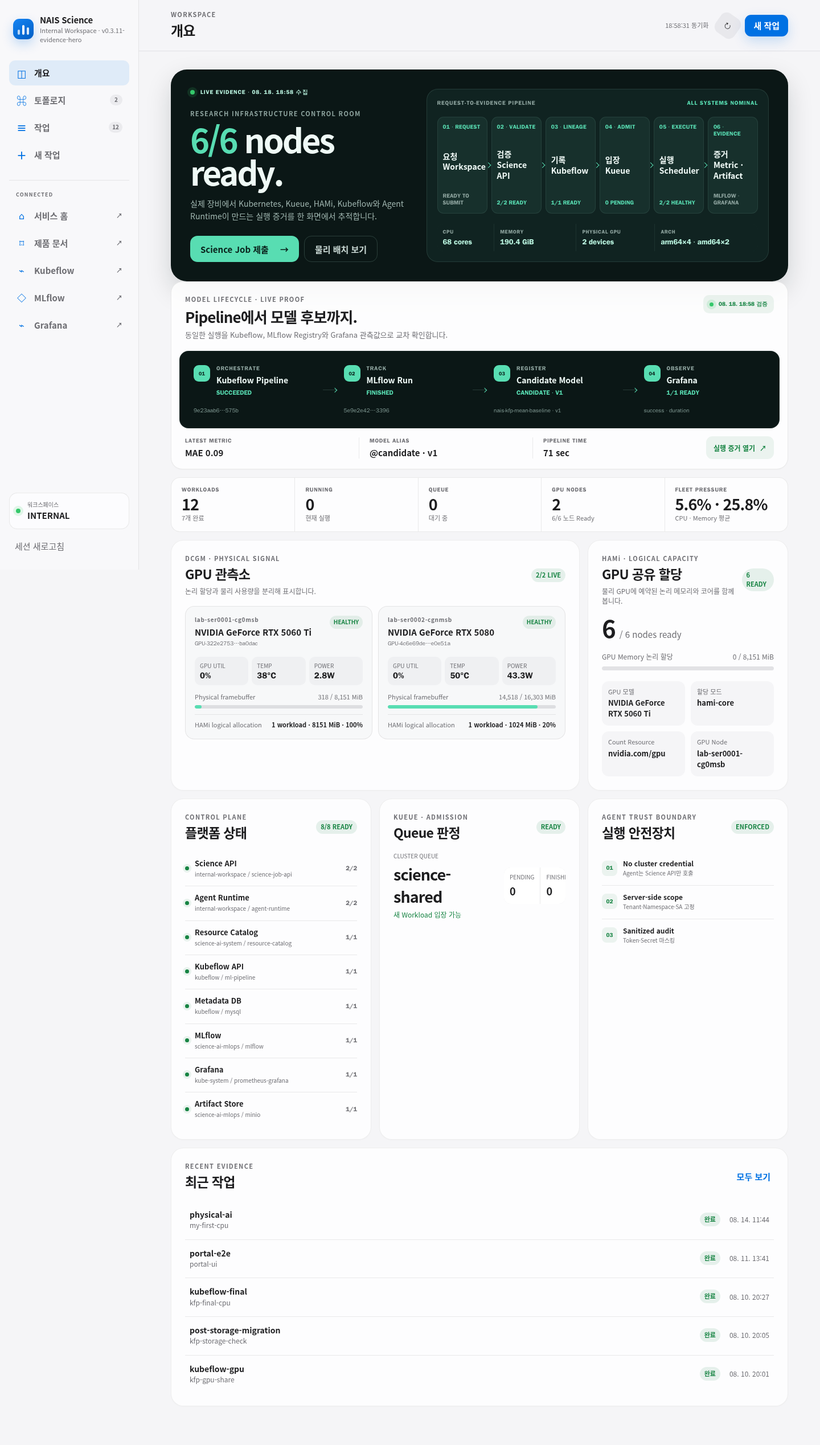
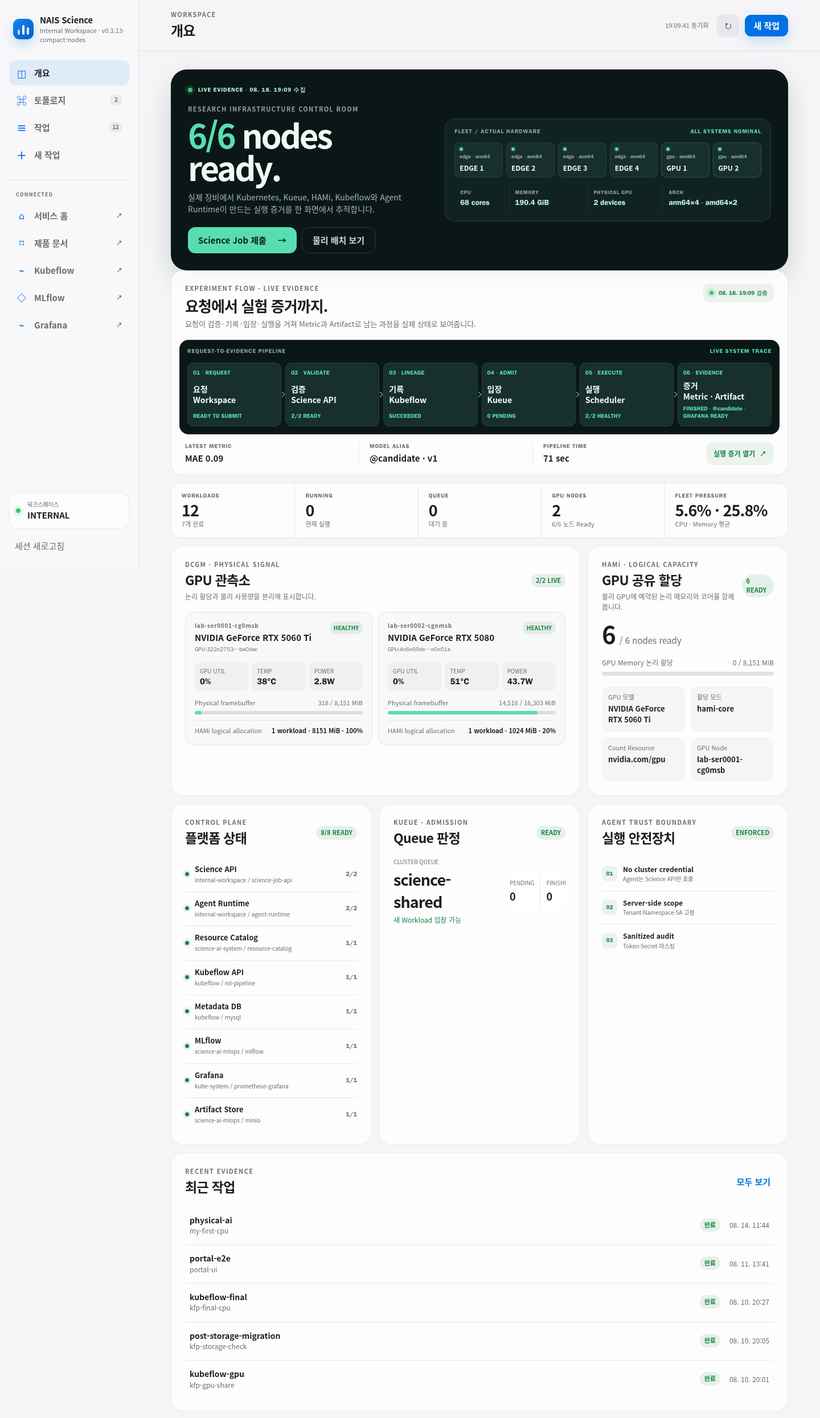
fix(ui): place evidence pipeline with experiment flow

diff --git a/workspace-topology/overrides/science_os/portal/portal.css b/workspace-topology/overrides/science_os/portal/portal.css
@@ -87,10 +87,10 @@ textarea { min-height: 120px; resize: vertical; font-family: ui-monospace, SFMon
 .status-pill { display: inline-flex; align-items: center; justify-content: center; width: fit-content; padding: 4px 8px; border-radius: 999px; font-size: 10px; font-weight: 700; text-transform: uppercase; }.status-pill.running,.status-pill.succeeded { color: var(--green); background: rgba(23,132,67,.1); }.status-pill.pending,.status-pill.submitted { color: var(--orange); background: rgba(198,93,0,.1); }.status-pill.failed,.status-pill.terminating { color: var(--red); background: rgba(215,0,21,.09); }.status-pill.neutral { color: var(--muted); background: rgba(118,118,128,.1); }
 .resource-content { display: grid; gap: 19px; }.resource-main { display: flex; align-items: baseline; gap: 8px; }.resource-main strong { font-size: 42px; line-height: 1; letter-spacing: -.05em; }.resource-main span { color: var(--muted); }.capacity-row { display: grid; gap: 8px; }.capacity-label { display: flex; justify-content: space-between; color: var(--muted); font-size: 11px; }.capacity-track { width:100%; height:7px; overflow:hidden; border:0; border-radius:8px; background:rgba(118,118,128,.1); appearance:none; }.capacity-track::-webkit-progress-bar { background:rgba(118,118,128,.1); border-radius:8px; }.capacity-track::-webkit-progress-value { border-radius:8px; background:linear-gradient(90deg,var(--blue),#5ac8fa); }.capacity-track::-moz-progress-bar { border-radius:8px; background:linear-gradient(90deg,var(--blue),#5ac8fa); }.resource-meta { display: grid; grid-template-columns: 1fr 1fr; gap: 10px; }.resource-meta div { padding: 11px; border-radius: 12px; background: rgba(118,118,128,.06); }.resource-meta small,.resource-meta strong { display: block; }.resource-meta small { color: var(--muted); font-size: 10px; }.resource-meta strong { margin-top: 3px; font-size: 12px; overflow-wrap: anywhere; }
 
-.operations-hero { display:grid; grid-template-columns:minmax(350px,.78fr) minmax(0,1.22fr); gap:30px; min-height:300px; padding:34px; border-radius:28px; color:#effaf6; background:var(--rack-ink); box-shadow:0 0 0 1px rgba(255,255,255,.05),0 18px 45px rgba(11,23,22,.16); }.operations-headline { align-self:center; }.live-kicker { display:flex; align-items:center; gap:10px; margin-bottom:24px; color:var(--phosphor-soft); font:600 10px/1.2 ui-monospace,SFMono-Regular,Menlo,monospace; letter-spacing:.08em; }.operations-hero .eyebrow { color:var(--cooled-steel); }.operations-hero h2 { margin:0; font-size:clamp(38px,4.3vw,58px); line-height:.98; letter-spacing:-.055em; text-wrap:balance; }.operations-hero h2 strong { color:var(--phosphor); font-variant-numeric:tabular-nums; }.operations-headline>p:not(.eyebrow) { max-width:690px; margin:16px 0 0; color:#9eb4ae; font-size:14px; line-height:1.6; text-wrap:pretty; }.hero-actions { display:flex; flex-wrap:wrap; gap:9px; margin-top:24px; }.operations-hero .primary-button.light { color:#09201a; background:var(--phosphor); }.operations-hero .primary-button.light:hover { background:#70e5bd; }.hero-quiet { min-height:46px; padding:0 18px; border:1px solid rgba(185,244,223,.18); border-radius:13px; color:#c9d8d4; background:transparent; cursor:pointer; font-weight:620; transition:background .18s ease,transform .12s ease; }.hero-quiet:hover { background:rgba(185,244,223,.07); }.hero-quiet:active { transform:scale(.97); }
-.request-evidence-instrument { align-self:stretch; display:grid; grid-template-rows:auto 1fr auto; min-width:0; padding:18px; border:1px solid rgba(185,244,223,.12); border-radius:20px; background:var(--rack-panel); }.instrument-head { display:flex; justify-content:space-between; gap:14px; color:var(--cooled-steel); font:600 10px/1.2 ui-monospace,SFMono-Regular,Menlo,monospace; letter-spacing:.08em; }.instrument-head span:last-child { color:var(--phosphor); }.request-evidence-flow { display:grid; grid-template-columns:repeat(6,minmax(0,1fr)); gap:7px; margin:18px 0; padding:0; list-style:none; }.request-evidence-flow li { position:relative; min-width:0; min-height:120px; display:grid; align-content:space-between; margin:0; padding:11px 9px; border:1px solid rgba(185,244,223,.09); border-radius:11px; background:var(--rack-raised); }.request-evidence-flow li::after { content:""; position:absolute; z-index:2; top:50%; right:-6px; width:6px; height:6px; border-top:1px solid var(--phosphor); border-right:1px solid var(--phosphor); transform:translateY(-50%) rotate(45deg); }.request-evidence-flow li:last-child::after { display:none; }.request-evidence-flow span { color:var(--phosphor); font:700 10px/1.2 ui-monospace,SFMono-Regular,Menlo,monospace; letter-spacing:.02em; }.request-evidence-flow strong { color:#eef8f5; font-size:14px; line-height:1.35; }.request-evidence-flow small { color:var(--cooled-steel); font:600 10px/1.25 ui-monospace,SFMono-Regular,Menlo,monospace; }.request-evidence-flow li[data-status="ready"] small { color:var(--phosphor); }.request-evidence-flow li[data-status="degraded"] small { color:var(--signal-amber); }.fleet-totals { display:grid; grid-template-columns:.8fr 1.15fr 1.1fr 1.45fr; gap:1px; margin:0; overflow:hidden; border-radius:11px; background:rgba(185,244,223,.08); }.fleet-totals div { min-width:0; padding:9px 10px; background:var(--rack-panel); }.fleet-totals dt { color:var(--cooled-steel); font:600 9px/1.2 ui-monospace,SFMono-Regular,Menlo,monospace; letter-spacing:.06em; }.fleet-totals dd { overflow:hidden; margin:4px 0 0; color:var(--phosphor-soft); font:650 13px/1.2 ui-monospace,SFMono-Regular,Menlo,monospace; text-overflow:ellipsis; white-space:nowrap; font-variant-numeric:tabular-nums; }
+.operations-hero { display:grid; grid-template-columns:minmax(370px,.85fr) minmax(480px,1.15fr); gap:28px; min-height:280px; padding:30px; border-radius:28px; color:#effaf6; background:var(--rack-ink); box-shadow:0 0 0 1px rgba(255,255,255,.05),0 18px 45px rgba(11,23,22,.16); }.operations-headline { align-self:center; }.live-kicker { display:flex; align-items:center; gap:10px; margin-bottom:20px; color:var(--phosphor-soft); font:600 10px/1.2 ui-monospace,SFMono-Regular,Menlo,monospace; letter-spacing:.08em; }.operations-hero .eyebrow { color:var(--cooled-steel); }.operations-hero h2 { margin:0; font-size:clamp(38px,4.3vw,58px); line-height:.98; letter-spacing:-.055em; text-wrap:balance; }.operations-hero h2 strong { color:var(--phosphor); font-variant-numeric:tabular-nums; }.operations-headline>p:not(.eyebrow) { max-width:690px; margin:14px 0 0; color:#9eb4ae; font-size:14px; line-height:1.55; text-wrap:pretty; }.hero-actions { display:flex; flex-wrap:wrap; gap:9px; margin-top:20px; }.operations-hero .primary-button.light { color:#09201a; background:var(--phosphor); }.operations-hero .primary-button.light:hover { background:#70e5bd; }.hero-quiet { min-height:46px; padding:0 18px; border:1px solid rgba(185,244,223,.18); border-radius:13px; color:#c9d8d4; background:transparent; cursor:pointer; font-weight:620; transition:background .18s ease,transform .12s ease; }.hero-quiet:hover { background:rgba(185,244,223,.07); }.hero-quiet:active { transform:scale(.97); }
+.fleet-instrument { align-self:center; display:grid; min-width:0; padding:16px; border:1px solid rgba(185,244,223,.12); border-radius:18px; background:var(--rack-panel); }.instrument-head { display:flex; justify-content:space-between; gap:14px; color:var(--cooled-steel); font:600 10px/1.2 ui-monospace,SFMono-Regular,Menlo,monospace; letter-spacing:.08em; }.instrument-head span:last-child { color:var(--phosphor); }.fleet-strip { display:grid; grid-template-columns:repeat(6,minmax(0,1fr)); gap:6px; margin:13px 0; }.fleet-node { min-width:0; min-height:62px; display:grid; align-content:center; gap:5px; padding:8px; border:1px solid rgba(185,244,223,.09); border-radius:10px; background:var(--rack-raised); }.fleet-node::before { content:""; width:6px; height:6px; border-radius:50%; background:var(--phosphor); box-shadow:0 0 0 3px rgba(88,221,178,.09); }.fleet-node.gpu { border-color:rgba(88,221,178,.24); }.fleet-node small,.fleet-node strong { overflow:hidden; text-overflow:ellipsis; white-space:nowrap; }.fleet-node small { color:var(--cooled-steel); font:600 9px/1.2 ui-monospace,SFMono-Regular,Menlo,monospace; }.fleet-node strong { color:#eef8f5; font-size:12px; }.fleet-totals { display:grid; grid-template-columns:.8fr 1.15fr 1.1fr 1.45fr; gap:1px; margin:0; overflow:hidden; border-radius:10px; background:rgba(185,244,223,.08); }.fleet-totals div { min-width:0; padding:8px 10px; background:var(--rack-panel); }.fleet-totals dt { color:var(--cooled-steel); font:600 9px/1.2 ui-monospace,SFMono-Regular,Menlo,monospace; letter-spacing:.06em; }.fleet-totals dd { overflow:hidden; margin:4px 0 0; color:var(--phosphor-soft); font:650 13px/1.2 ui-monospace,SFMono-Regular,Menlo,monospace; text-overflow:ellipsis; white-space:nowrap; font-variant-numeric:tabular-nums; }
 .mlops-evidence { margin-bottom:14px; overflow:hidden; border:1px solid var(--line); border-radius:20px; background:var(--surface); box-shadow:0 1px 2px rgba(0,0,0,.025); }.evidence-heading { display:flex; align-items:flex-start; justify-content:space-between; gap:28px; padding:23px 24px 19px; }.evidence-heading h2 { margin:0; font-size:26px; line-height:1.1; letter-spacing:-.035em; text-wrap:balance; }.evidence-heading p:not(.eyebrow) { max-width:720px; margin:7px 0 0; color:var(--muted); font-size:11px; text-wrap:pretty; }.evidence-updated { flex:0 0 auto; display:flex; align-items:center; gap:9px; min-height:32px; padding:0 11px; border-radius:10px; color:var(--green); background:rgba(23,132,67,.08); font:650 9px/1 ui-monospace,SFMono-Regular,Menlo,monospace; font-variant-numeric:tabular-nums; }.evidence-updated .live-dot { width:7px; height:7px; }
-.evidence-spine { display:grid; grid-template-columns:minmax(0,1fr) 24px minmax(0,1fr) 24px minmax(0,1fr) 24px minmax(0,1fr); align-items:center; margin:0 14px; padding:12px; border-radius:16px; color:#eef8f5; background:var(--rack-ink); box-shadow:inset 0 0 0 1px rgba(185,244,223,.07); }.evidence-stage { min-width:0; min-height:112px; display:grid; grid-template-columns:auto minmax(0,1fr); grid-template-rows:1fr auto; column-gap:11px; padding:13px; border-radius:12px; color:inherit; text-decoration:none; transition:background .18s cubic-bezier(.23,1,.32,1),transform .12s cubic-bezier(.23,1,.32,1); }.evidence-stage:hover { background:var(--rack-raised); }.evidence-stage:active { transform:scale(.97); }.evidence-index { grid-row:1; display:grid; place-items:center; align-self:start; width:29px; height:29px; border-radius:9px; color:#092019; background:var(--phosphor); font:750 9px/1 ui-monospace,SFMono-Regular,Menlo,monospace; }.evidence-copy { min-width:0; display:grid; align-content:start; }.evidence-copy small { color:var(--cooled-steel); font:650 8px/1.2 ui-monospace,SFMono-Regular,Menlo,monospace; letter-spacing:.08em; }.evidence-copy strong { overflow:hidden; margin-top:4px; font-size:12px; text-overflow:ellipsis; white-space:nowrap; }.evidence-copy span { margin-top:5px; color:var(--phosphor); font:650 9px/1.2 ui-monospace,SFMono-Regular,Menlo,monospace; text-transform:uppercase; }.evidence-stage code { grid-column:1/-1; overflow:hidden; align-self:end; color:#819a94; font:500 8px/1.2 ui-monospace,SFMono-Regular,Menlo,monospace; text-overflow:ellipsis; white-space:nowrap; }.evidence-connector { height:1px; background:rgba(185,244,223,.16); }.evidence-connector::after { content:""; float:right; width:5px; height:5px; margin-top:-2px; border-top:1px solid var(--phosphor); border-right:1px solid var(--phosphor); transform:rotate(45deg); }.evidence-stage[data-status="degraded"] .evidence-index { color:#281702; background:var(--signal-amber); }.evidence-stage[data-status="degraded"] .evidence-copy span { color:var(--signal-amber); }.evidence-stage[data-status="unknown"] .evidence-index { color:#d4dfdc; background:#3a4e49; }.evidence-stage[data-status="unknown"] .evidence-copy span { color:var(--cooled-steel); }
+.evidence-pipeline-shell { margin:0 14px; padding:14px; border-radius:16px; color:#eef8f5; background:var(--rack-ink); box-shadow:inset 0 0 0 1px rgba(185,244,223,.07); }.request-evidence-flow { display:grid; grid-template-columns:repeat(6,minmax(0,1fr)); gap:7px; margin:14px 0 0; padding:0; list-style:none; }.request-evidence-flow li { position:relative; min-width:0; min-height:112px; display:grid; align-content:space-between; margin:0; padding:11px 9px; border:1px solid rgba(185,244,223,.09); border-radius:11px; background:var(--rack-raised); transition:background .18s cubic-bezier(.23,1,.32,1),transform .12s cubic-bezier(.23,1,.32,1); }.request-evidence-flow li::after { content:""; position:absolute; z-index:2; top:50%; right:-6px; width:6px; height:6px; border-top:1px solid var(--phosphor); border-right:1px solid var(--phosphor); transform:translateY(-50%) rotate(45deg); }.request-evidence-flow li:last-child::after { display:none; }.request-evidence-flow li>a { position:absolute; inset:0; display:grid; align-content:space-between; padding:11px 9px; color:inherit; text-decoration:none; }.request-evidence-flow li:has(a:hover) { background:#1d3832; }.request-evidence-flow li:has(a:active) { transform:scale(.97); }.request-evidence-flow span { color:var(--phosphor); font:700 10px/1.2 ui-monospace,SFMono-Regular,Menlo,monospace; letter-spacing:.02em; }.request-evidence-flow strong { color:#eef8f5; font-size:14px; line-height:1.35; }.request-evidence-flow small { color:var(--cooled-steel); font:600 10px/1.25 ui-monospace,SFMono-Regular,Menlo,monospace; }.request-evidence-flow li[data-status="ready"] small { color:var(--phosphor); }.request-evidence-flow li[data-status="degraded"] small { color:var(--signal-amber); }
 .evidence-facts { display:grid; grid-template-columns:repeat(3,minmax(0,1fr)) auto; align-items:center; gap:0; padding:14px 24px 17px; }.evidence-facts div { min-width:0; padding:0 18px; border-left:1px solid var(--line); }.evidence-facts div:first-child { padding-left:0; border-left:0; }.evidence-facts small,.evidence-facts strong { display:block; }.evidence-facts small { color:var(--muted); font:650 8px/1.2 ui-monospace,SFMono-Regular,Menlo,monospace; letter-spacing:.07em; }.evidence-facts strong { overflow:hidden; margin-top:4px; font-size:13px; font-variant-numeric:tabular-nums; text-overflow:ellipsis; white-space:nowrap; }.evidence-facts>a { display:inline-flex; align-items:center; justify-content:center; gap:8px; min-height:40px; padding:0 13px; border-radius:11px; color:var(--green); background:rgba(23,132,67,.08); font-size:11px; font-weight:680; text-decoration:none; transition:background .18s ease,transform .12s ease; }.evidence-facts>a:hover { background:rgba(23,132,67,.14); }.evidence-facts>a:active { transform:scale(.97); }
 .ops-kpis { display:grid; grid-template-columns:repeat(5,1fr); margin-bottom:14px; overflow:hidden; border:1px solid var(--line); border-radius:16px; background:var(--surface); }.ops-kpis article { min-width:0; padding:15px 18px; border-left:1px solid var(--line); }.ops-kpis article:first-child { border-left:0; }.ops-kpis small,.ops-kpis strong,.ops-kpis span { display:block; }.ops-kpis small { color:var(--muted); font:650 8px/1.2 ui-monospace,SFMono-Regular,Menlo,monospace; letter-spacing:.08em; }.ops-kpis strong { margin-top:5px; font-size:24px; line-height:1; letter-spacing:-.035em; font-variant-numeric:tabular-nums; }.ops-kpis span { overflow:hidden; margin-top:4px; color:var(--muted); font-size:9px; text-overflow:ellipsis; white-space:nowrap; }
 .command-grid { display:grid; grid-template-columns:repeat(12,minmax(0,1fr)); gap:14px; }.command-grid>.panel { min-width:0; }.gpu-observatory { grid-column:span 8; }.platform-panel { grid-column:span 4; }.queue-panel,.trust-panel,.resource-panel { grid-column:span 4; }.recent-panel { grid-column:span 8; }.panel-heading p:not(.eyebrow) { margin:4px 0 0; color:var(--muted); font-size:10px; }.gpu-telemetry { display:grid; grid-template-columns:repeat(2,minmax(0,1fr)); gap:10px; }.gpu-instrument-card { min-width:0; padding:16px; border:1px solid var(--line); border-radius:16px; background:rgba(11,23,22,.025); }.gpu-card-head { display:flex; align-items:flex-start; justify-content:space-between; gap:12px; }.gpu-card-head>div { min-width:0; }.gpu-card-head small,.gpu-card-head strong,.gpu-card-head code { display:block; }.gpu-card-head small { color:var(--muted); font-size:8px; font-weight:700; letter-spacing:.07em; }.gpu-card-head strong { overflow:hidden; margin-top:3px; font-size:13px; text-overflow:ellipsis; white-space:nowrap; }.gpu-card-head code { overflow:hidden; margin-top:3px; color:var(--muted); font-size:8px; text-overflow:ellipsis; white-space:nowrap; }.gpu-card-head>span { flex:0 0 auto; padding:4px 7px; border-radius:99px; color:var(--green); background:rgba(23,132,67,.09); font-size:8px; font-weight:700; }.gpu-signal { display:grid; grid-template-columns:repeat(3,1fr); gap:6px; margin-top:15px; }.gpu-signal div { min-width:0; padding:9px; border-radius:10px; background:rgba(118,118,128,.055); }.gpu-signal small,.gpu-signal strong { display:block; }.gpu-signal small { color:var(--muted); font-size:8px; }.gpu-signal strong { margin-top:3px; font:650 13px/1 ui-monospace,SFMono-Regular,Menlo,monospace; font-variant-numeric:tabular-nums; }.gpu-meter { display:grid; gap:6px; margin-top:13px; }.gpu-meter-label { display:flex; justify-content:space-between; color:var(--muted); font-size:9px; }.gpu-meter-track { overflow:hidden; height:6px; border-radius:8px; background:rgba(118,118,128,.1); }.gpu-meter-track i { display:block; height:100%; border-radius:inherit; background:var(--phosphor); }.gpu-logical { display:flex; justify-content:space-between; gap:10px; margin-top:10px; padding-top:10px; border-top:1px solid var(--line); color:var(--muted); font-size:9px; }.gpu-logical strong { color:var(--text); font-variant-numeric:tabular-nums; }
@@ -104,10 +104,6 @@ textarea { min-height: 120px; resize: vertical; font-family: ui-monospace, SFMon
 .fleet-totals dd { font-size:13px; }
 .evidence-heading p:not(.eyebrow) { font-size:13px; line-height:1.5; }
 .evidence-updated { font-size:10px; }
-.evidence-copy small { font-size:10px; }
-.evidence-copy strong { font-size:14px; }
-.evidence-copy span { font-size:11px; }
-.evidence-stage code { font-size:10px; }
 .evidence-facts small { font-size:10px; }
 .evidence-facts strong { font-size:15px; }
 .evidence-facts>a { font-size:12px; }
@@ -168,8 +164,8 @@ textarea { min-height: 120px; resize: vertical; font-family: ui-monospace, SFMon
 @media (max-width: 820px) { .header-link { display:inline-flex; } }
 @media (max-width: 1180px) { .gpu-observatory { grid-column:span 7; }.resource-panel { grid-column:span 5; }.platform-panel,.queue-panel,.trust-panel { grid-column:span 4; }.recent-panel { grid-column:span 12; } }
 @media (max-width: 1180px) { .operations-hero { grid-template-columns:1fr; min-height:0; }.ops-kpis { grid-template-columns:repeat(3,1fr); }.ops-kpis article:nth-child(4) { border-left:0; border-top:1px solid var(--line); }.ops-kpis article:nth-child(5) { border-top:1px solid var(--line); }.command-grid>.panel { grid-column:1/-1; } }
-@media (max-width: 820px) { .operations-hero { gap:24px; padding:27px 22px; border-radius:23px; }.live-kicker { margin-bottom:20px; }.operations-hero h2 { font-size:40px; }.request-evidence-flow { grid-template-columns:repeat(3,minmax(0,1fr)); }.request-evidence-flow li { min-height:105px; }.request-evidence-flow li:nth-child(3)::after,.request-evidence-flow li:nth-child(6)::after { display:none; }.fleet-totals { grid-template-columns:1fr 1fr; }.evidence-heading { display:grid; gap:12px; padding:20px 19px 16px; }.evidence-heading h2 { font-size:23px; }.evidence-updated { width:fit-content; }.evidence-spine { grid-template-columns:1fr; gap:0; margin:0 10px; padding:10px; }.evidence-stage { min-height:86px; grid-template-rows:1fr; }.evidence-stage code { grid-column:2; align-self:start; margin-top:7px; }.evidence-connector { width:1px; height:18px; margin-left:27px; }.evidence-connector::after { float:none; display:block; margin:13px 0 0 -2px; transform:rotate(135deg); }.evidence-facts { grid-template-columns:1fr 1fr; padding:14px 19px 18px; row-gap:13px; }.evidence-facts div { padding:0 12px; }.evidence-facts div:nth-child(3) { padding-left:0; border-left:0; }.evidence-facts>a { min-height:44px; }.ops-kpis { grid-template-columns:1fr 1fr; }.ops-kpis article { border-top:1px solid var(--line); }.ops-kpis article:nth-child(odd) { border-left:0; }.ops-kpis article:nth-child(-n+2) { border-top:0; }.gpu-telemetry { grid-template-columns:1fr; }.queue-instrument { grid-template-columns:1fr; } }
-@media (max-width: 480px) { .hero-actions { display:grid; }.hero-actions>* { width:100%; }.request-evidence-instrument { padding:15px; }.instrument-head { align-items:flex-start; flex-direction:column; }.request-evidence-flow { display:flex; overflow-x:auto; margin-right:-15px; padding:0 15px 6px 0; scroll-padding-inline:0 15px; scroll-snap-type:x proximity; scrollbar-color:rgba(88,221,178,.35) transparent; scrollbar-width:thin; }.request-evidence-flow li { flex:0 0 142px; scroll-snap-align:start; }.request-evidence-flow li:nth-child(3)::after,.request-evidence-flow li:nth-child(6)::after { display:block; }.request-evidence-flow li:last-child::after { display:none; }.fleet-totals { grid-template-columns:1fr 1fr; }.fleet-totals div:nth-child(2),.fleet-totals div:nth-child(4) { display:none; }.ops-kpis { grid-template-columns:1fr 1fr; }.gpu-signal { grid-template-columns:1fr 1fr; }.gpu-signal div:last-child { grid-column:1/-1; }.panel-heading { align-items:flex-start; gap:12px; } }
+@media (max-width: 820px) { .operations-hero { gap:22px; padding:27px 22px; border-radius:23px; }.live-kicker { margin-bottom:20px; }.operations-hero h2 { font-size:40px; }.fleet-totals { grid-template-columns:1fr 1fr; }.request-evidence-flow { grid-template-columns:repeat(3,minmax(0,1fr)); }.request-evidence-flow li { min-height:105px; }.request-evidence-flow li:nth-child(3)::after,.request-evidence-flow li:nth-child(6)::after { display:none; }.evidence-heading { display:grid; gap:12px; padding:20px 19px 16px; }.evidence-heading h2 { font-size:23px; }.evidence-updated { width:fit-content; }.evidence-pipeline-shell { margin:0 10px; padding:12px; }.evidence-facts { grid-template-columns:1fr 1fr; padding:14px 19px 18px; row-gap:13px; }.evidence-facts div { padding:0 12px; }.evidence-facts div:nth-child(3) { padding-left:0; border-left:0; }.evidence-facts>a { min-height:44px; }.ops-kpis { grid-template-columns:1fr 1fr; }.ops-kpis article { border-top:1px solid var(--line); }.ops-kpis article:nth-child(odd) { border-left:0; }.ops-kpis article:nth-child(-n+2) { border-top:0; }.gpu-telemetry { grid-template-columns:1fr; }.queue-instrument { grid-template-columns:1fr; } }
+@media (max-width: 480px) { .hero-actions { display:grid; }.hero-actions>* { width:100%; }.fleet-instrument { padding:14px; }.fleet-strip { grid-template-columns:repeat(3,1fr); }.instrument-head { align-items:flex-start; flex-direction:column; }.request-evidence-flow { display:flex; overflow-x:auto; margin-right:-12px; padding:0 12px 6px 0; scroll-padding-inline:0 12px; scroll-snap-type:x proximity; scrollbar-color:rgba(88,221,178,.35) transparent; scrollbar-width:thin; }.request-evidence-flow li { flex:0 0 142px; scroll-snap-align:start; }.request-evidence-flow li:nth-child(3)::after,.request-evidence-flow li:nth-child(6)::after { display:block; }.request-evidence-flow li:last-child::after { display:none; }.fleet-totals { grid-template-columns:1fr 1fr; }.fleet-totals div:nth-child(2),.fleet-totals div:nth-child(4) { display:none; }.ops-kpis { grid-template-columns:1fr 1fr; }.gpu-signal { grid-template-columns:1fr 1fr; }.gpu-signal div:last-child { grid-column:1/-1; }.panel-heading { align-items:flex-start; gap:12px; } }
 @media (prefers-reduced-motion: reduce) { *,*::before,*::after { scroll-behavior:auto!important; animation-duration:.001ms!important; animation-iteration-count:1!important; transition-duration:.001ms!important; } }
 @media (prefers-contrast: more) { :root { --line:rgba(0,0,0,.28); }.panel,.stat-card,input,textarea,select { border-color:rgba(0,0,0,.28); } }
 @media (prefers-reduced-transparency: reduce) { .sidebar,.topbar,.mobile-nav,.job-dialog,.signal-card { backdrop-filter:none; -webkit-backdrop-filter:none; }.sidebar,.topbar,.mobile-nav { background:#f8f8fa; }.job-dialog { background:white; } }

diff --git a/workspace-topology/overrides/science_os/portal/portal.js b/workspace-topology/overrides/science_os/portal/portal.js
@@ -241,16 +241,10 @@ function serviceOrigin(lanHost, institutionHost) {
   return `http://${host}`;
 }
 
-function compactEvidenceId(value) {
-  const text = String(value || "");
-  return text ? `${text.slice(0, 8)}…${text.slice(-4)}` : "—";
-}
-
-function evidenceStage(id, ready, label) {
-  const stage = byId(id);
-  stage.dataset.status = ready === true ? "ready" : ready === false ? "degraded" : "unknown";
-  const stateLabel = stage.querySelector(".evidence-copy span");
+function evidencePipelineStatus(id, ready, label) {
+  const stateLabel = byId(id);
   stateLabel.textContent = label;
+  stateLabel.closest("li").dataset.status = ready === true ? "ready" : ready === false ? "degraded" : "unknown";
 }
 
 function renderMlopsEvidence() {
@@ -266,17 +260,14 @@ function renderMlopsEvidence() {
   const modelReady = mlflow.status === "ready" ? String(model.status).toUpperCase() === "READY" && model.alias === "candidate" : null;
   const grafanaReady = grafana ? grafana.status === "ready" : null;
 
-  evidenceStage("evidence-kfp-link", kfpReady, kfp.status === "ready" ? String(kfp.state || "UNKNOWN").toUpperCase() : "UNAVAILABLE");
-  evidenceStage("evidence-run-link", runReady, mlflow.status === "ready" ? String(run.status || "UNKNOWN").toUpperCase() : "UNAVAILABLE");
-  evidenceStage("evidence-model-link", modelReady, modelReady ? `${model.alias} · v${model.version}` : mlflow.status === "ready" ? "CHECK" : "UNAVAILABLE");
-  evidenceStage("evidence-grafana-link", grafanaReady, grafana ? `${grafana.ready ?? "—"}/${grafana.desired ?? "—"} READY` : "UNAVAILABLE");
+  evidencePipelineStatus("evidence-kfp-state", kfpReady, kfp.status === "ready" ? String(kfp.state || "UNKNOWN").toUpperCase() : "UNAVAILABLE");
+  const proofReady = runReady === true && modelReady === true && grafanaReady === true;
+  const proofKnown = runReady !== null || modelReady !== null || grafanaReady !== null;
+  const proofLabel = mlflow.status === "ready"
+    ? `${String(run.status || "UNKNOWN").toUpperCase()} · ${model.alias ? `@${model.alias}` : "NO MODEL"} · GRAFANA ${grafanaReady ? "READY" : "CHECK"}`
+    : "UNAVAILABLE";
+  evidencePipelineStatus("evidence-run-state", proofKnown ? proofReady : null, proofLabel);
 
-  byId("evidence-kfp-id").textContent = compactEvidenceId(kfp.runId);
-  byId("evidence-kfp-id").title = kfp.runId || "";
-  byId("evidence-run-id").textContent = compactEvidenceId(run.runId);
-  byId("evidence-run-id").title = run.runId || "";
-  byId("evidence-model-id").textContent = model.name ? `${model.name} · v${model.version || "—"}` : "—";
-  byId("evidence-model-id").title = model.name || "";
   byId("evidence-mae").textContent = finiteNumber(run.mae) === null ? "MAE —" : `MAE ${Number(run.mae).toFixed(2)}`;
   byId("evidence-alias").textContent = model.alias ? `@${model.alias} · v${model.version}` : "—";
   byId("evidence-duration").textContent = finiteNumber(kfp.durationSeconds) === null ? "—" : `${Number(kfp.durationSeconds)} sec`;
@@ -288,11 +279,8 @@ function renderMlopsEvidence() {
 
   const kfpOrigin = serviceOrigin("kubeflow-pipelines.192.168.0.56.nip.io", "kubeflow-pipelines.10.254.192.217.nip.io");
   const mlflowOrigin = serviceOrigin("mlflow.192.168.0.56.nip.io", "mlflow.10.254.192.217.nip.io");
-  const grafanaOrigin = serviceOrigin("grafana.192.168.0.56.sslip.io", "grafana.10.254.192.217.nip.io");
   byId("evidence-kfp-link").href = kfp.runId ? `${kfpOrigin}/#/runs/details/${encodeURIComponent(kfp.runId)}` : kfpOrigin;
   byId("evidence-run-link").href = mlflow.experimentId && run.runId ? `${mlflowOrigin}/#/experiments/${encodeURIComponent(mlflow.experimentId)}/runs/${encodeURIComponent(run.runId)}` : mlflowOrigin;
-  byId("evidence-model-link").href = model.name && model.version ? `${mlflowOrigin}/#/models/${encodeURIComponent(model.name)}/versions/${encodeURIComponent(model.version)}` : `${mlflowOrigin}/#/models`;
-  byId("evidence-grafana-link").href = `${grafanaOrigin}/d/nais-mlflow-functional-demo`;
   const proofLink = document.querySelector(".evidence-facts > a");
   proofLink.href = byId("evidence-run-link").href;
 }
@@ -340,9 +328,9 @@ function renderOperations() {
   if (!operations) {
     byId("operations-age").textContent = "신호 없음";
     byId("fleet-health").textContent = "UNAVAILABLE";
+    byId("fleet-strip").innerHTML = '<p class="notice">운영 데이터를 불러오지 못했습니다.</p>';
     proofStatus("proof-api", null, "UNAVAILABLE");
     proofStatus("proof-queue", null, "UNAVAILABLE");
-    proofStatus("proof-kubeflow", null, "UNAVAILABLE");
     proofStatus("proof-gpu", null, "UNAVAILABLE");
     byId("platform-components").innerHTML = '<p class="notice">구성요소 상태를 확인할 수 없습니다.</p>';
     byId("queue-instrument").innerHTML = '<p class="notice">Queue 상태를 확인할 수 없습니다.</p>';
@@ -351,6 +339,7 @@ function renderOperations() {
     return;
   }
   const fleet = operations.fleet || {};
+  const nodes = (operations.topology?.sites || []).flatMap((site) => site.nodes || []);
   byId("operations-age").textContent = `${formatDate(operations.generatedAt)} 수집`;
   byId("operations-ready").textContent = `${fleet.readyNodeCount ?? "—"}/${fleet.nodeCount ?? "—"}`;
   byId("fleet-health").textContent = fleet.readyNodeCount === fleet.nodeCount ? "ALL SYSTEMS NOMINAL" : "ATTENTION REQUIRED";
@@ -359,12 +348,11 @@ function renderOperations() {
   byId("fleet-gpu").textContent = `${fleet.physicalGpuCount ?? "—"} devices`;
   byId("fleet-arch").textContent = Object.entries(fleet.architectures || {}).map(([name, count]) => `${name}×${count}`).join(" · ") || "—";
   byId("fleet-pressure").textContent = `${fixedMetric(fleet.averageCpuPercent, 1, "%")} · ${fixedMetric(fleet.averageMemoryPercent, 1, "%")}`;
+  byId("fleet-strip").innerHTML = nodes.map((node) => `<article class="fleet-node ${node.accelerator ? "gpu" : ""}" title="${escapeHtml(publicIdentifier(node.node))}"><small>${escapeHtml(node.executionClass)} · ${escapeHtml(node.architecture)}</small><strong>${escapeHtml(compactNodeName(node.node))}</strong></article>`).join("");
 
   const apiComponent = componentByName("Science API");
-  const kubeflowComponent = componentByName("Kubeflow API");
   proofStatus("proof-api", apiComponent ? apiComponent.status === "ready" : null, `${apiComponent?.ready}/${apiComponent?.desired} READY`);
   proofStatus("proof-queue", operations.queue?.status === "ready" ? true : operations.queue?.status === "degraded" ? false : null, `${operations.queue?.pendingWorkloads || 0} PENDING`);
-  proofStatus("proof-kubeflow", kubeflowComponent ? kubeflowComponent.status === "ready" : null, `${kubeflowComponent?.ready}/${kubeflowComponent?.desired} READY`);
   proofStatus("proof-gpu", operations.gpu?.deviceCount ? operations.gpu.healthyDeviceCount === operations.gpu.deviceCount : null, `${operations.gpu?.healthyDeviceCount}/${operations.gpu?.deviceCount} HEALTHY`);
 
   const platform = operations.platform || {};

diff --git a/workspace-topology/overrides/science_os/portal/index.html b/workspace-topology/overrides/science_os/portal/index.html
@@ -90,16 +90,9 @@
                 <button class="hero-quiet" type="button" data-view="topology">물리 배치 보기</button>
               </div>
             </div>
-            <div id="request-evidence-pipeline" class="request-evidence-instrument">
-              <div class="instrument-head"><span>REQUEST-TO-EVIDENCE PIPELINE</span><span id="fleet-health">동기화 중</span></div>
-              <ol class="request-evidence-flow" aria-label="Science Job 요청부터 실행 증거까지의 흐름">
-                <li><span>01 · REQUEST</span><strong>요청<br>Workspace</strong><small>READY TO SUBMIT</small></li>
-                <li><span>02 · VALIDATE</span><strong>검증<br>Science API</strong><small id="proof-api">확인 중</small></li>
-                <li><span>03 · LINEAGE</span><strong>기록<br>Kubeflow</strong><small id="proof-kubeflow">확인 중</small></li>
-                <li><span>04 · ADMIT</span><strong>입장<br>Kueue</strong><small id="proof-queue">확인 중</small></li>
-                <li><span>05 · EXECUTE</span><strong>실행<br>Scheduler</strong><small id="proof-gpu">확인 중</small></li>
-                <li><span>06 · EVIDENCE</span><strong>증거<br>Metric · Artifact</strong><small>MLFLOW · GRAFANA</small></li>
-              </ol>
+            <div class="fleet-instrument">
+              <div class="instrument-head"><span>FLEET / ACTUAL HARDWARE</span><span id="fleet-health">동기화 중</span></div>
+              <div id="fleet-strip" class="fleet-strip" aria-label="실제 노드 상태" aria-live="polite"><span class="skeleton"></span></div>
               <dl class="fleet-totals">
                 <div><dt>CPU</dt><dd id="fleet-cpu">—</dd></div>
                 <div><dt>MEMORY</dt><dd id="fleet-memory">—</dd></div>
@@ -112,36 +105,22 @@
           <section id="mlops-evidence" class="mlops-evidence" aria-labelledby="mlops-evidence-title">
             <header class="evidence-heading">
               <div>
-                <p class="eyebrow">MODEL LIFECYCLE · LIVE PROOF</p>
-                <h2 id="mlops-evidence-title">Pipeline에서 모델 후보까지.</h2>
-                <p>동일한 실행을 Kubeflow, MLflow Registry와 Grafana 관측값으로 교차 확인합니다.</p>
+                <p class="eyebrow">EXPERIMENT FLOW · LIVE EVIDENCE</p>
+                <h2 id="mlops-evidence-title">요청에서 실험 증거까지.</h2>
+                <p>요청이 검증·기록·입장·실행을 거쳐 Metric과 Artifact로 남는 과정을 실제 상태로 보여줍니다.</p>
               </div>
               <span id="evidence-updated" class="evidence-updated"><span class="live-dot"></span>연결 중</span>
             </header>
-            <div class="evidence-spine" aria-label="Kubeflow에서 Grafana까지의 최신 검증 흐름">
-              <a id="evidence-kfp-link" class="evidence-stage" href="http://kubeflow-pipelines.192.168.0.56.nip.io/">
-                <span class="evidence-index">01</span>
-                <span class="evidence-copy"><small>ORCHESTRATE</small><strong>Kubeflow Pipeline</strong><span id="evidence-kfp-state">확인 중</span></span>
-                <code id="evidence-kfp-id">—</code>
-              </a>
-              <i class="evidence-connector" aria-hidden="true"></i>
-              <a id="evidence-run-link" class="evidence-stage" href="http://mlflow.192.168.0.56.nip.io/">
-                <span class="evidence-index">02</span>
-                <span class="evidence-copy"><small>TRACK</small><strong>MLflow Run</strong><span id="evidence-run-state">확인 중</span></span>
-                <code id="evidence-run-id">—</code>
-              </a>
-              <i class="evidence-connector" aria-hidden="true"></i>
-              <a id="evidence-model-link" class="evidence-stage" href="http://mlflow.192.168.0.56.nip.io/#/models">
-                <span class="evidence-index">03</span>
-                <span class="evidence-copy"><small>REGISTER</small><strong>Candidate Model</strong><span id="evidence-model-state">확인 중</span></span>
-                <code id="evidence-model-id">—</code>
-              </a>
-              <i class="evidence-connector" aria-hidden="true"></i>
-              <a id="evidence-grafana-link" class="evidence-stage" href="http://grafana.192.168.0.56.sslip.io/d/nais-mlflow-functional-demo">
-                <span class="evidence-index">04</span>
-                <span class="evidence-copy"><small>OBSERVE</small><strong>Grafana</strong><span id="evidence-grafana-state">확인 중</span></span>
-                <code>success · duration</code>
-              </a>
+            <div id="request-evidence-pipeline" class="evidence-pipeline-shell">
+              <div class="instrument-head"><span>REQUEST-TO-EVIDENCE PIPELINE</span><span>LIVE SYSTEM TRACE</span></div>
+              <ol class="request-evidence-flow" aria-label="Science Job 요청부터 실행 증거까지의 흐름">
+                <li data-status="ready"><span>01 · REQUEST</span><strong>요청<br>Workspace</strong><small>READY TO SUBMIT</small></li>
+                <li><span>02 · VALIDATE</span><strong>검증<br>Science API</strong><small id="proof-api">확인 중</small></li>
+                <li><a id="evidence-kfp-link" href="http://kubeflow-pipelines.192.168.0.56.nip.io/"><span>03 · LINEAGE</span><strong>기록<br>Kubeflow</strong><small id="evidence-kfp-state">확인 중</small></a></li>
+                <li><span>04 · ADMIT</span><strong>입장<br>Kueue</strong><small id="proof-queue">확인 중</small></li>
+                <li><span>05 · EXECUTE</span><strong>실행<br>Scheduler</strong><small id="proof-gpu">확인 중</small></li>
+                <li><a id="evidence-run-link" href="http://mlflow.192.168.0.56.nip.io/"><span>06 · EVIDENCE</span><strong>증거<br>Metric · Artifact</strong><small id="evidence-run-state">확인 중</small></a></li>
+              </ol>
             </div>
             <footer class="evidence-facts">
               <div><small>LATEST METRIC</small><strong id="evidence-mae">MAE —</strong></div>

diff --git a/workspace-topology/tests/test_topology.py b/workspace-topology/tests/test_topology.py
@@ -185,13 +185,15 @@ def test_portal_requests_operations_dashboard_data() -> None:
     assert 'replace("mlflow.192.168.0.56.nip.io", "mlflow.10.254.192.217.nip.io")' in javascript
     assert html.index('class="panel gpu-observatory"') < html.index('class="panel resource-panel"')
     assert html.index('class="panel resource-panel"') < html.index('class="panel platform-panel"')
-    assert ".evidence-copy strong { font-size:14px; }" in stylesheet
+    assert ".request-evidence-flow strong { color:#eef8f5; font-size:14px;" in stylesheet
     assert ".component-row strong { font-size:13px; }" in stylesheet
     assert re.search(r"\bETRI\b", html) is None
     assert "ETRI SCIENCE JOB" not in javascript
     assert "REQUEST-TO-EVIDENCE PIPELINE" in html
+    assert "요청에서 실험 증거까지." in html
     assert "Metric · Artifact" in html
-    assert 'id="fleet-strip"' not in html
-    assert 'byId("fleet-strip")' not in javascript
+    assert html.index('id="mlops-evidence"') < html.index('id="request-evidence-pipeline"')
+    assert 'id="fleet-strip"' in html
+    assert 'byId("fleet-strip")' in javascript
     assert "publicIdentifier" in javascript
     assert "publicIdentifier(gpu?.node)" in javascript

diff --git a/workspace-topology/README.md b/workspace-topology/README.md
@@ -2,7 +2,7 @@
 
 This package adds an interview-ready live operations dashboard to NAIS Science Workspace. It combines the existing `Site → Node → GPU → Workload` placement view with real Kubernetes capacity, Kueue admission, Prometheus component health, DCGM physical GPU telemetry and the Agent trust boundary. The overview also presents a live `Kubeflow → MLflow Run → candidate model → Grafana` evidence spine sourced from the real KFP and MLflow APIs. Science Job detail remains joined to its observed HAMi allocation.
 
-The canonical source files under `services/science_os` are root-owned in this workspace, so the changed files are kept as an explicit image overlay. The runtime image is based on `0.3.1` and published as `0.3.11-evidence-hero`.
+The canonical source files under `services/science_os` are root-owned in this workspace, so the changed files are kept as an explicit image overlay. The runtime image is based on `0.3.1` and published as `0.3.13-compact-nodes`.
 
 ## Build
 

diff --git a/README.md b/README.md
@@ -60,7 +60,7 @@ make destroy-demo
 - `make resilience-plan`: Pod 변경 없이 PDB 기반 가용성 Drill 절차 출력
 - `make destroy-demo`: 프로젝트 Demo Job만 삭제하며 PVC·운영 구성요소는 보존
 
-Secret 값은 `scripts/ensure-secrets.sh`가 Kubernetes Secret에 생성하며 Git에 기록하지 않습니다. 기본 런타임 이미지는 `192.168.0.56:5000/mini-science-ai-os:0.3.1`이고, 운영 대시보드 Overlay는 `0.3.11-evidence-hero` (`sha256:5c7639114fd32f13d019855d386794d9123ae326d539d390b69e7e65e868090a`)로 배포합니다.
+Secret 값은 `scripts/ensure-secrets.sh`가 Kubernetes Secret에 생성하며 Git에 기록하지 않습니다. 기본 런타임 이미지는 `192.168.0.56:5000/mini-science-ai-os:0.3.1`이고, 운영 대시보드 Overlay는 `0.3.13-compact-nodes` (`sha256:81717870e8b76ce2c64fffa4b6046481691c79de9936045edb7d20cb12439a10`)로 배포합니다.
 
 ## 접근
 
